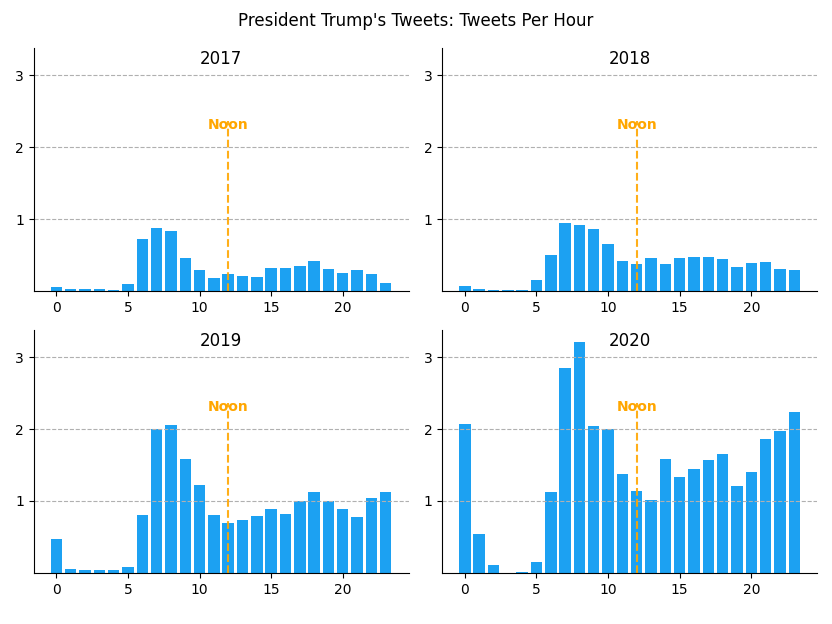
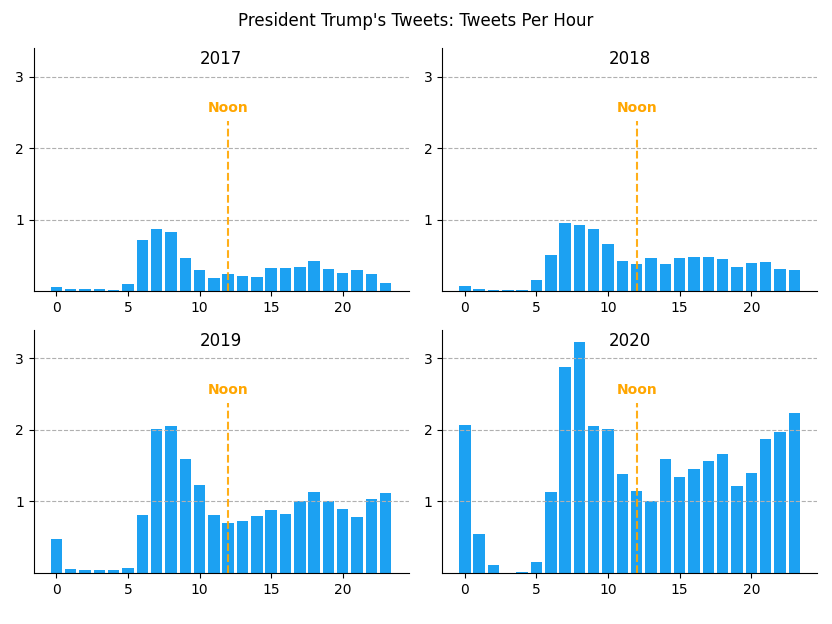
update with recent tweets

diff --git a/scripts/make_charts.py b/scripts/make_charts.py
@@ -97,7 +97,7 @@ for y in yrs:
     cnt = len(df[df['created_yy'] == int(y)])
     ts.append(cnt)
 
-bars = ax.bar(yrs, ts, color=tcolor)
+bars = ax.bar(yrs, ts, width=0.6, color=tcolor)
 
 # annotate top of each bar with count of tweets for the year that the bar represents
 for i, bar in enumerate(bars):
@@ -114,19 +114,23 @@ for i, bar in enumerate(bars):
         color=tcolor)
 
 # format y-labels with a thousands separator and no decimals
-yticks = ax.get_yticks()
-ax.set_yticks(yticks) # needed for 
-yticks = ['{:,.0f}'.format(t) for t in yticks.tolist()]
-ax.set_yticklabels(yticks)
+#yticks = ax.get_yticks()
+#ax.set_yticks(yticks) # needed for FixedLocator
+#yticks = ['{:,.0f}'.format(t) for t in yticks.tolist()]
+#ax.set_yticklabels(yticks)
+
+# turn off y-axis
+ax.get_yaxis().set_visible(False)
 
 # show y-grid line
 #ax.grid(axis='y', which='major', linestyle='--')
 
-# disable spines (lines across axis)
+# disable spines (axis lines)
 ax.spines['top'].set_visible(False)
+ax.spines['left'].set_visible(False)
 ax.spines['right'].set_visible(False)
 
-fig.text(0.99, 0.01, fineprint, ha='right', fontsize='small', fontstyle='italic', alpha=0.5)
+#fig.text(0.99, 0.01, fineprint, ha='right', fontsize='small', fontstyle='italic', alpha=0.5)
 
 fig.savefig(f_name)
 plt.close() # closes current figure (not required but keeps the memory clean)
@@ -171,7 +175,7 @@ yticks = ['{:,.0f}'.format(t) for t in yticks.tolist()]
 ax.set_yticklabels(yticks)
 
 # show y-grid line
-ax.grid(axis='y', which='major', linestyle='--')
+#ax.grid(axis='y', which='major', linestyle='--')
 
 # disable spines (lines across axis)
 ax.spines['top'].set_visible(False)
@@ -179,7 +183,7 @@ ax.spines['right'].set_visible(False)
 
 ax.legend(frameon=False)
 
-fig.text(0.99, 0.01, fineprint, ha='right', fontsize='small', fontstyle='italic', alpha=0.5)
+#fig.text(0.99, 0.01, fineprint, ha='right', fontsize='small', fontstyle='italic', alpha=0.5)
 
 fig.savefig(f_name)
 plt.close() # closes current figure (not required but keeps the memory clean)
@@ -192,7 +196,8 @@ print('saved plot {}'.format(f_name))
 
 f_name = 'plt_03.png'
 
-fig = plt.figure(figsize=(13, 5), tight_layout={'rect': (0, 0.02, 1, 1)})
+#fig = plt.figure(figsize=(13, 5), tight_layout={'rect': (0, 0.02, 1, 1)})
+fig = plt.figure(figsize=(13, 5), tight_layout=True)
 ax = plt.subplot()
 
 title = main_title
@@ -264,7 +269,7 @@ ax.spines['right'].set_visible(False)
 
 ax.legend(frameon=False, loc=2, bbox_to_anchor=(0, 1.02))
 
-fig.text(0.99, 0.01, fineprint, ha='right', fontsize='small', fontstyle='italic', alpha=0.5)
+#fig.text(0.99, 0.01, fineprint, ha='right', fontsize='small', fontstyle='italic', alpha=0.5)
 
 fig.savefig(f_name)
 plt.close() # closes current figure (not required but keeps the memory clean)
@@ -277,7 +282,8 @@ print('saved plot {}'.format(f_name))
 
 f_name = 'plt_04.png'
 
-fig = plt.figure(figsize=(13, 5), tight_layout={'rect': (0, 0.02, 1, 1)}) # creates current figure
+#fig = plt.figure(figsize=(13, 5), tight_layout={'rect': (0, 0.02, 1, 1)}) # creates current figure
+fig = plt.figure(figsize=(13, 5), tight_layout=True) # creates current figure
 ax = plt.subplot() # creates current axes
 
 title = main_title
@@ -351,7 +357,7 @@ ax.spines['right'].set_visible(False)
 
 ax.legend(frameon=False)
 
-fig.text(0.99, 0.01, fineprint, ha='right', fontsize='small', fontstyle='italic', alpha=0.5)
+#fig.text(0.99, 0.01, fineprint, ha='right', fontsize='small', fontstyle='italic', alpha=0.5)
 
 fig.savefig(f_name)
 plt.close() # closes current figure (not required but keeps the memory clean)
@@ -364,7 +370,8 @@ print('saved plot {}'.format(f_name))
 
 f_name = 'plt_05.png'
 
-fig = plt.figure(figsize=(13, 5), tight_layout={'rect': (0, 0.02, 1, 1)}) # creates current figure
+#fig = plt.figure(figsize=(13, 5), tight_layout={'rect': (0, 0.02, 1, 1)}) # creates current figure
+fig = plt.figure(figsize=(13, 5), tight_layout=True) # creates current figure
 ax = plt.subplot() # creates current axes
 
 title = main_title
@@ -444,7 +451,7 @@ ax.spines['right'].set_visible(False)
 
 ax.legend()
 
-fig.text(0.99, 0.01, fineprint, ha='right', fontsize='small', fontstyle='italic', alpha=0.5)
+#fig.text(0.99, 0.01, fineprint, ha='right', fontsize='small', fontstyle='italic', alpha=0.5)
 
 fig.savefig(f_name)
 plt.close() # closes current figure (not required but keeps the memory clean)
@@ -457,7 +464,8 @@ print('saved plot {}'.format(f_name))
 
 f_name = 'plt_06.png'
 
-fig = plt.figure(figsize=(13, 5), tight_layout={'rect': (0, 0.02, 1, 1)})
+#fig = plt.figure(figsize=(13, 5), tight_layout={'rect': (0, 0.02, 1, 1)})
+fig = plt.figure(figsize=(13, 5), tight_layout=True)
 ax = plt.subplot() # first axes for tweets
 ax2 = ax.twinx() # second axes for like (sharing the same y-axis)
 
@@ -533,7 +541,7 @@ ax2.spines['top'].set_visible(False)
 ax.legend(frameon=False, bbox_to_anchor=(0, 0.95), loc=2)
 ax2.legend(frameon=False)
 
-fig.text(0.99, 0.01, fineprint, ha='right', fontsize='small', fontstyle='italic', alpha=0.5)
+#fig.text(0.99, 0.01, fineprint, ha='right', fontsize='small', fontstyle='italic', alpha=0.5)
 
 fig.savefig(f_name)
 plt.close() # closes current figure (not required but keeps the memory clean)
@@ -554,7 +562,7 @@ ax2019 = plt.subplot(2, 2, 3)
 ax2020 = plt.subplot(2, 2, 4)
 axs = [ax2017, ax2018, ax2019, ax2020]
 
-title = main_title + ': Tweets Per Weekday'
+title = main_title
 fig.suptitle(title)
 
 # in python, weekdays are 0 for Mon and 6 for Sun
@@ -593,7 +601,7 @@ for i, ax in enumerate(axs):
     ax.spines['right'].set_visible(False)
     ax.grid(axis='y', which='major', linestyle='--')
 
-fig.text(0.99, 0.01, fineprint, ha='right', fontsize='small', fontstyle='italic', alpha=0.5)
+#fig.text(0.99, 0.01, fineprint, ha='right', fontsize='small', fontstyle='italic', alpha=0.5)
 
 fig.savefig(f_name)
 plt.close() # closes current figure (not required but keeps the memory clean)
@@ -662,7 +670,7 @@ for i, ax in enumerate(axs):
 
 ax2017.legend(frameon=False, loc=2, bbox_to_anchor=(0, 1.02))
 
-fig.text(0.99, 0.01, fineprint, ha='right', fontsize='small', fontstyle='italic', alpha=0.5)
+#fig.text(0.99, 0.01, fineprint, ha='right', fontsize='small', fontstyle='italic', alpha=0.5)
 
 fig.savefig(f_name)
 plt.close() # closes current figure (not required but keeps the memory clean)
@@ -698,7 +706,7 @@ for i, y in enumerate(yrs):
 for i, ax in enumerate(axs):
     ax.bar(hs, height=ts[i], color=tcolor)
     line = ax.axvline(x=12, ymin=0, ymax=0.7, linestyle='--', color=(1.0, 0.65, 0, 0.9))
-    ax.text(12, 2.25, 'Noon', color=(1.0, 0.65, 0, 1.0), fontweight='bold', ha='center')
+    ax.text(12, 2.5, 'Noon', color=(1.0, 0.65, 0, 1.0), fontweight='bold', ha='center')
 
 # get largest ymax among all plots
 ymaxs = []
@@ -718,7 +726,7 @@ for i, ax in enumerate(axs):
     ax.spines['right'].set_visible(False)
     ax.grid(axis='y', which='major', linestyle='--')
 
-fig.text(0.99, 0.01, fineprint, ha='right', fontsize='small', fontstyle='italic', alpha=0.5)
+#fig.text(0.99, 0.01, fineprint, ha='right', fontsize='small', fontstyle='italic', alpha=0.5)
 
 fig.savefig(f_name)
 plt.close()
@@ -762,7 +770,7 @@ for i, ax in enumerate(axs):
     ax.bar(hs, height=rs[i], label='Retweets')
     ax.bar(hs, height=ts[i], bottom=rs[i], color=tcolor, label='Own tweets')
     line = ax.axvline(x=12, ymin=0, ymax=0.7, linestyle='--', color=(1.0, 0.65, 0, 0.9))
-    ax.text(12, 2.25, 'Noon', color=(1.0, 0.65, 0, 1.0), fontweight='bold', ha='center')
+    ax.text(12, 2.5, 'Noon', color=(1.0, 0.65, 0, 1.0), fontweight='bold', ha='center')
 
 # get largest ymax among all plots
 ymaxs = []
@@ -785,7 +793,7 @@ for i, ax in enumerate(axs):
 #ax2017.legend(frameon=False, loc=2, bbox_to_anchor=(0, 0.95))
 ax2017.legend(loc=2)
 
-fig.text(0.99, 0.01, fineprint, ha='right', fontsize='small', fontstyle='italic', alpha=0.5)
+#fig.text(0.99, 0.01, fineprint, ha='right', fontsize='small', fontstyle='italic', alpha=0.5)
 
 fig.savefig(f_name)
 plt.close()
@@ -882,7 +890,7 @@ ax2.spines['right'].set_visible(False)
 
 fig.legend()
 
-fig.text(0.99, 0.01, fineprint, ha='right', fontsize='small', fontstyle='italic', alpha=0.5)
+#fig.text(0.99, 0.01, fineprint, ha='right', fontsize='small', fontstyle='italic', alpha=0.5)
 
 fig.savefig(f_name)
 plt.close() # close current figure - not required but keeps the memory clean
@@ -932,7 +940,7 @@ ax3 = plt.subplot(4, 1, 3)
 ax4 = plt.subplot(4, 1, 4)
 axs = [ax1, ax2, ax3, ax4]
 
-title = main_title + ': Daily Count'
+title = main_title
 fig.suptitle(title, fontsize='x-large')
 
 # number of weeks in 2017-2020: 52 + 52 + 52 + 53 = 209

diff --git a/README.md b/README.md
@@ -1,24 +1,26 @@
 # All the President's Tweets #
 
-November 23, 2020
+![Banner with tweets][plt14]
 
-President Trump has sent 23,842 tweets since taking office in 2017. I downloaded all them from Twitter to analyze his tweeting patterns, and here is what I found in a few graphs. 
+November 24, 2020
 
-Donald Trump had been a prolific tweeter even before he became President, sending thousands of tweets per year. When he was elected in 2016, there was an expectation that he might mold into the job and change some of his habits, including his tweeting habit. But that expectation turned out to be short-lived because not only President Trump continued to tweet on a daily basis, he has increased the number of tweets he sent from one year to the next:
+President Trump sent 23,858 tweets since taking office in 2017. I downloaded all them from Twitter to analyze his tweeting patterns, and here is what I found in a few graphs. 
+
+Donald Trump had been a prolific tweeter even before he became President, sending thousands of tweets per year. When he was elected in 2016, there was an expectation that he might mold into the job and change some of his habits, including his tweeting habit. But that expectation turned out to be short-lived because not only President Trump continued to tweet on a daily basis, he has increased the number of tweets he sent from one year to the next.
 
 ![Tweets by year][plt1]
 
-### Tweets vs Retweets
+### Tweets vs. Retweets
 
-If you don't use Twitter very often, it's worth mentioning that tweets can be of two types - own tweets or retweets. An own tweet is when you type something in 140 characters or less and send it out, and a retweet is when you take someone else's tweet and send it out, optionally including your comment in 140 characters. So, here is a look at President Trump's tweets broken into these two types: 
+If you don't use Twitter very often, it's worth mentioning that tweets can be of two types, own tweets or retweets. An own tweet is when you type something in 140 characters or less and send it out, and a retweet is when you take someone else's tweet and send it out, optionally including your comment in 140 characters. So, here is a look at President Trump's tweets broken into these two types:
 
 ![Tweets vs retweets][plt2]
 
-This graph reveals a couple of interesting patterns. First, even with the retweets separated out, President Trump has increased his tweeting frequency with his time in the White House, or in other words, his tweeting activity has grown regardless of the type of tweeting. Second, his retweeting rate has increased even more drastically than the rate of his own tweets, bringing the ratio of own tweets to retweets to almost half-and-half by 2020. It is almost like he has realized the value of retweets around the middle of his Presidency, and then turned them into a routine. 
+This graph reveals a couple of interesting patterns. First, even with the retweets separated out, President Trump has increased his tweeting frequency with his time in the White House. In other words, his tweeting activity has grown regardless of the type of tweeting. Second, his retweeting rate has increased even more drastically than the rate of his own tweets, bringing the ratio of own tweets to retweets to almost half-and-half by 2020. It is almost like he has realized the value of retweets around the middle of his Presidency, and then turned them into a routine. 
 
 ### Tweets by Month
 
-23,842 tweets over the past 4 years and counting certainly feels like a big number, but to better understand what this volume of tweets really means, it is useful to break up the year into months and look at the tweets on a month-by-month basis:
+23,858 tweets in the past 4 years and counting certainly feels like a big number, but to better understand what this volume of tweets really means, it is useful to break up the years into months and look at the tweets on a month-by-month basis.
 
 ![Tweets per month][plt4]
 
@@ -34,31 +36,31 @@ What about Likes? Here is basically the previous graph but overlayed with Likes 
 
 Despite a roller coaster-like tweeting rate, the Likes remained relatively steady in the range from 50 to 100 thousand Likes per tweet on average. Notice how the red line representing Likes stays above the volume of tweets in the first two years, but drops below them in the later years. What this likely shows is that more tweeting didn't translate to more Likes per tweet. And actually, if there is any relationship between the volume of tweets and their likeability, it appears to be a negative one where more tweeting is making the tweets less popular. This is more noticable in 2018 and 2019. 
 
-You can also observe an annual pattern with the Likes where they seem to be higher in the beginning and end of the year, and lower in the middle. Of course, this is not to suggest that the likeability of tweets is driven by natural seasons, but more likely by the content of the tweets which in their own turn might be driven by seasons.
+You can also observe an annual pattern with the Likes where they seem to be higher in the beginning and end of the year, and lower in the middle. Of course, this is not to suggest that the likeability of tweets is driven by natural seasons, but more likely by the content of the tweets which in its own turn might be driven by seasons.
 
-It would be an omission to move on without mentioning the spike in Likes in November of 2020. There are a few reasons that make this month special, but chief among those is, of course, the defeat in the elections. It is possible that the spike is a show of support from his followers on Twitter in light of the news, but it is hard to put too much weight on this November because this is an incomplete month (the dataset includes tweets only up to November 23), and because many of Trump's tweets in November were flagged with Twitter's new disinformation label, making them not possible to interact with. And that leaves the month with even fewer tweets to work with for calculating average likes. 
+It would be an omission to move on without mentioning the spike in Likes in November of 2020. There are a few reasons that make this month special, but chief among those is, of course, the defeat in the elections. It is possible that the spike is a show of support from his followers on Twitter in light of the hard news, but it would be wrong to put too much weight on the month because this is an incomplete month (the dataset includes tweets up to November 24, 2020), and because many of Trump's tweets in November were flagged with Twitter's new disinformation label, making them not possible to interact with. And that leaves the month with even fewer tweets to work with for calculating average likes. 
 
 ### Tweets by Day of Week
 
-Most people structure their days differently based on the day of the week, and the most common example of that is weekdays versus weekends. We do things differently on our days off versus our work days, we watch TV more or less, exercise more or less, and use social media more or less. Can we observe any such patterns with President Trump's tweets during his week?
+Most people structure their days differently based on the day of the week, and the most common example of that is weekdays versus weekends. We do things differently on our days off versus our work days: we watch TV more or less, exercise more or less, and use social media more or less. Can we observe any such patterns with President Trump's tweets during his week?
 
 ![Tweets by day of week][plt7]
 
-It turns out, President Trump tweets remarkably consistently every day of the week. Although there appears to be a small rise and decline as the week unfolds, especially in 2017 and 2018, by and large President Trump does not appear to take any days off from Twitter. In 2020, the pattern even reverses and the middle of the week becomes the less active period, although with over 30 tweets per day it is less active only by a few tweets. 
+It turns out, President Trump tweets remarkably consistently every day of the week. Although there appears to be a small rise and decline as the week unfolds, especially in 2017 and 2018, by and large President Trump does not appear to take any days off from Twitter. In 2020, this slight pattern even reverses, and the middle of the week becomes the less active period (although with over 30 tweets per day it is less active only by a few tweets). 
 
 ### Tweets by Time of Day
 
-It has been common to hear reports of President Trump sending tweets very late at night or very early in the morning, in addition to the usual hours of the day. So when I started working on this dataset I was curious to see how President Trump's tweeting frequency would look by time of day. And here is what that looks like:
+It has been common to hear reports of President Trump sending tweets very late at night or very early in the morning, in addition to the usual hours of the day. So when I started working on this dataset, I was curious to see how President Trump's tweeting frequency would look by time of day. And here is what that looks like:
 
 ![Tweets by time of day][plt9]
 
 This graph contains a lot of information, but I thought the most striking observation is how little President Trump sleeps, especiallhy in the last two years. Looking at 2020, his bedtime appears to be from about 1:00am to 6:00am, a meager 5 hours. And sleep, or whatever is left of it, seems to be the only thing that stops him from tweeting, because in all the other times of the day he sends anywhere from 1 to 3 tweets per hour. 
 
-The period of the morning hours from 7:00am to 11:00am appears to be the most active time of the day, with 2 or more tweets per hour, based on the 2020 tweets. And the most active hour within that period is 8:00am to 9:00am, with over 3 tweets per hour. Interestingly, but probably not surprisingly, the next most active period is late atnight, from about 9:00pm to 1:00am. 
+The period of the morning hours from 7:00am to 11:00am appears to be the most active time of the day, with 2 or more tweets per hour, based on the 2020 tweets. And the most active hour within that period is 8:00am to 9:00am, with over 3 tweets in that hour. Interestingly, but probably not surprisingly, the next most active period is late at night, from about 9:00pm to 1:00am. 
 
 ### Most (and Least) Active Days
 
-After seeing the remarkable volume and consistency of tweets, it may be interesting to ask what President Trump's most (and least) active tweeting days were, and how many tweets made them qualify for the top rank. So here are President Trump's top 10 most active tweeting days:
+After seeing the remarkable volume and consistency of tweets, it may be interesting to ask what President Trump's most, and least, active tweeting days were. And how many tweets made them qualify for the top rank. So here are President Trump's top 10 most active tweeting days:
 
 ![Top 10 most active days][plt11]
 
@@ -82,8 +84,7 @@ And finally, here is a look at all of President Trump's tweets, day-by-day, in o
 
 ### Data and Methodology
 
-The data for this publication was obtained from the Twitter API and analyzed using Python and its special data libraries NumPy, Pandas, and Matplotlib. The data and the scripts can be found at: https://github.com/adilbekm/trump_tweets
-
+I obtained the data for this publication from the Twitter API and analyzed using Python and its special data libraries NumPy, Pandas, and Matplotlib. The data and scripts can be found at https://github.com/adilbekm/trump_tweets
 
 ### Other Graphs 
 
@@ -97,82 +98,9 @@ The data for this publication was obtained from the Twitter API and analyzed usi
 
 ![Days without any tweets][plt12]
 
-
 You can view any of the tweets from this this dataset at Twitter.com by replacing the ending of the link shown below with the id of the tweet you are interested in, and opening the link in your browser:
 
 https://twitter.com/realDonaldTrump/status/tweet-id-here
-
-
-
-## Trash
-
-Yes, there is some increase on work days compared to weekends, but by and large the volume of tweet is
-
-At least in the first two years of his term, there appears to be some structure with a slight reduction in tweets on Sundays and equally limited rise during the week, 
-
-their days differently during the week, with the most common weekends are different from weekdays in what we do and how much, and there are days of the week when we exercise Your weekend may not be the typical Saturday and Sunday, but And there are days when for President Trump's tweeting they are nearly the same.
- 
-Has President Trump tweeted differently based on the day of the week? It turns out, Trump's tweeting volume does not fluctuate much throughout a whole week. 
-
-The impeachment trial took place in the second half of 2019, and 2020 was dominated by the global pandemic and the elections.  
-
- We still see that President Trump has sent an increasing number of tweets while in Office, but now we also see that the increase wasn't linear. There is a relatively calm first half of his term followed by a rapidly increasing second half, which can likely be attributed to his impeachment trial in 2019, and of course, the global pandemic and the elections in 2020. Clearly, President Trump 
-
-I next looked at the tweets
-
- exactly does it mean? How many tweets does this translate to on a monthly basis?  sounds like a big number, 
-
-Interpreting growith in retweets:
-
-Given that retweeting involves 
-
-retweeting:
-- read others
-- give voice to others
-- spread something
-- pick and choose
-- engagement
-
-What is interesting here is President Trump 
-
-How can we interprete this second pattern?
-
-Retweeting is a sign of engaging with other users on Twitter, as in connecting with others and sharing their message. So when we see the share of retweets go from sigle digits in the first years to nearly half of all his tweets by now, it may show   
-
-so increased retweeting is a sign of increased engagement with others. So when we see the share of retweets go from single digits in the beginning of his term to almost 50% of his tweets by 2020, it shows that President Trump is finding more connections and support. And a President being no ordinary user, these connections are also likely among organizations or high-profile individuals. 
-is of course no ordinary user, the users he interacts with are also not ordinary people, so the connections that the retweets show are likely  
-
- and this is what we see in the case of President Trump's increased retweeting too.
-
- President, of course, is no ordinary user, and the users that he interacts with are not ordinary people either.  so this is     these are usually organizations or other high-profile individuals.
-
-sand more.oending more and more tweets the longer he was at the White House. 
-
-has tweeted increasingly more the longer sent increasingly more tweets the longer he was at the White House. 
-
-He continued to tweet daily after moving into the White House, and the longer he stayed there the more he tweeted. 
-
-
- become at least a little like all the other presidents that came before him, and this meant tweeting less. But today with nearly all of his presidency behind him, that expectation turned out to be short-lived. 
-
-sending multiple tweets every day. If there was any expectation that this habit would stop after his election, it turned out to be short-lived. He continued to tweet nearly as usual in the first half of his term, and then 
-
-and that included dialing down on his twitting habits. After all, there are many established ways for a President to communicate to the world. Twitter just didn't seem like the best tool for the new job.
- 
-  When and after he was elected, I expected that he would 
-
-President Trump has sent a total of 23,384 tweets between January 1, 2017 and November 7, 2020 at noon. 
-
-Since becoming President in 2017, Donald Trump has sent 23,787 tweets. To understand this number, I downloaded the tweets and put them into charts.
-
-One of the most unusual things about President Trump is how much he tweets.
-
-I downloaded all of President Trump's tweets since he became President in 2017 to understand his tweeting habits. Here is what I found. 
-
-This is a lot for anyone, so to understand how and To understand what this number means, and his tweeting habit, I downloaded all of his tweets and analyzed them in a few graphs, and here is what I found.
-
-President Trump tweets a lot. But how much exactly does he tweet? How many tweets does he send in a given year, month, day, or even an hour? How many likes does he get? In this article I pulled all of President Trump's tweets since 2017 to answer these questions. 
-
 
 [plt1]: images/plt_01.png
 [plt2]: images/plt_02.png
